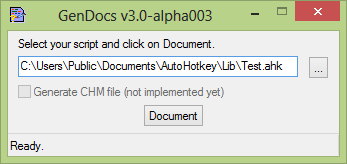
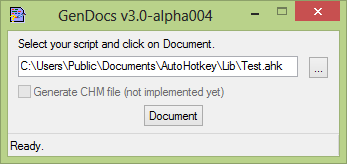
Update GenDocs docu

Changed region(s): [[0.0576, 0.4573, 0.8646, 0.4878], [0.0576, 0.3354, 0.8646, 0.3659], [0.5764, 0.061, 0.634, 0.122]]

diff --git a/intro.htm b/intro.htm
@@ -33,7 +33,7 @@
 <li><a href="pages/smartgui.htm">SmartGUI Creator 4.0</a></li>
 <li><a href="pages/dialogcreators.htm">Dialog creators</a></li>
 <li><a href="pages/ahknettool.htm">AutoHotkey.net Tool</a></li>
-<li><a href="pages/gendocs.htm">GenDocs 2.1</a></li>
+<li><a href="pages/gendocs.htm">GenDocs 3.0</a></li>
 <li><a href="pages/slutil.htm">Scriptlet Utility</a></li>
 <li><a href="pages/tillagoto.htm">TillaGoto</a></li>
 </ul>
@@ -54,7 +54,7 @@
   <li>MsgBox Creator</li>
   <li>SplashImage Maker</li>
   <li>AutoHotkey.net Tool (AHK script uploader to autohotkey.net, a free AutoHotkey script hosting site)</li>
-  <li>GenDocs 2.1 (StdLib library documentation tool)</li>
+  <li>GenDocs 3.0 (StdLib library documentation tool)</li>
   <li>TillaGoto (script function/label/hotkey lister)</li>
   <li>Scriptlet Utility (scriptlet management tool)</li>
   </ul>

diff --git a/pages/gendocs.htm b/pages/gendocs.htm
@@ -2,13 +2,13 @@
 "http://www.w3.org/TR/html4/loose.dtd">
 <html>
 <head>
-<title>GenDocs 3.0-alpha003</title>
+<title>GenDocs 3.0-alpha004</title>
 <meta http-equiv="Content-Type" content="text/html; charset=utf-8">
 <link href="../default.css" rel="stylesheet" type="text/css">
 </head>
 <body>
 
-<h1>GenDocs 3.0-alpha003</h1>
+<h1>GenDocs 3.0-alpha004</h1>
 <p>GenDocs is a utility for easily creating documentation for AutoHotkey libraries. It supports the following structures:</p>
 <ul>
 <li>Functions</li>
